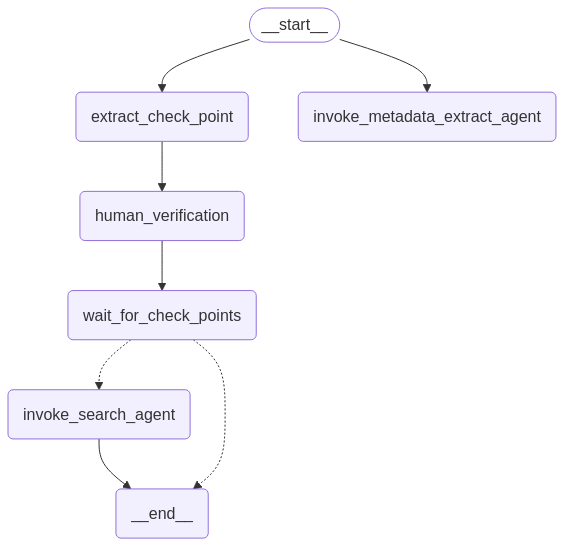
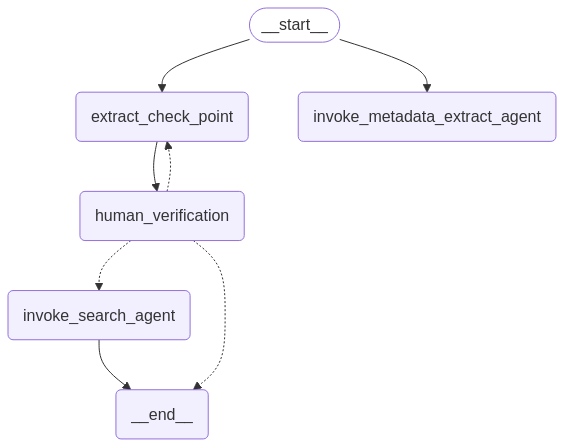
feat: 🎸 fix human verification conditional edge problem

diff --git a/agents/planner/test.py b/agents/planner/test.py
@@ -10,36 +10,36 @@ from utils import check_env
 def cli_select_option(options, prompt):
     """
     实现命令行选择功能，用户可以通过左右箭头键选择选项
-    
+
     Args:
         options: 选项列表
         prompt: 提示信息
-        
+
     Returns:
         选中的选项
     """
     selected = 0
-    
+
     print(prompt)
-    
+
     def print_options():
         # 清除当前行
-        sys.stdout.write('\r' + ' ' * 100 + '\r')
-        
+        sys.stdout.write("\r" + " " * 100 + "\r")
+
         # 只打印选项，不打印提示
         for i, option in enumerate(options):
             if i == selected:
                 sys.stdout.write(f"[•] {option}  ")
             else:
                 sys.stdout.write(f"[ ] {option}  ")
-        
+
         sys.stdout.flush()
-    
+
     print_options()
-    
+
     while True:
         key = readchar.readkey()
-        
+
         if key == readchar.key.LEFT and selected > 0:
             selected -= 1
             print_options()
@@ -47,37 +47,25 @@ def cli_select_option(options, prompt):
             selected += 1
             print_options()
         elif key == readchar.key.ENTER:
-            sys.stdout.write('\n')
+            sys.stdout.write("\n")
             return options[selected]
 
 
 def get_user_feedback():
     """处理用户交互，返回用户反馈"""
     choice = cli_select_option(["continue", "revise"], "请选择操作：")
-    
+
     if choice == "continue":
-        return {
-            "action": "continue"
-        }
+        return {"action": "continue"}
     else:
         print("\n请输入您的修改建议：")
         feedback = input("> ")
-        return {
-            "action": "revise",
-            "feedback": feedback
-        }
+        return {"action": "revise", "feedback": feedback}
 
 
 def test_plan_agent():
-    model = ChatDeepSeek(
-        model="deepseek-reasoner",
-        temperature=0.6,
-        streaming=True
-    )
-    metadata_extract_model = ChatOpenAI(
-        model="gpt-4o-mini",
-        temperature=0
-    )
+    model = ChatDeepSeek(model="deepseek-reasoner", temperature=0.6, streaming=True)
+    metadata_extract_model = ChatOpenAI(model="gpt-4o-mini", temperature=0)
     search_model = ChatOpenAI(
         model="qwen-plus-latest",
         temperature=0.4,
@@ -96,25 +84,26 @@ def test_plan_agent():
     }
 
     plan_agent = PlanAgentGraph(
-        model=metadata_extract_model,
+        model=model,
         metadata_extract_model=metadata_extract_model,
-        search_model=search_model
+        search_model=search_model,
     )
-    
+
     # 添加命令行查看图的选项
     if "--view-graph" in sys.argv:
         import os
+
         graph_path = "plan_agent_graph.png"
         plan_agent.graph.get_graph().draw_mermaid_png(output_file_path=graph_path)
         print(f"Graph saved to {os.path.abspath(graph_path)}")
         return
-    
+
     thread_config = {"thread_id": "some_id"}
     res = plan_agent.invoke(
-        example_initial_state, 
+        example_initial_state,
         {"configurable": thread_config},
     )
-    
+
     # 需要反复捕获 interrups 才能不断进行 agent-human loop ！！！
     while True:
         states = plan_agent.graph.get_state({"configurable": thread_config})
@@ -122,13 +111,25 @@ def test_plan_agent():
         if interrupts:
             # question = interrupts[0].value.get('question', '')
             result = get_user_feedback()
-            
-            plan_agent.invoke(
-                Command(resume=result),
-                config={"configurable": thread_config},
-            )
+
+            if result["action"] == "continue":
+                plan_agent.invoke(
+                    Command(resume="continue"),
+                    config={"configurable": thread_config},
+                )
+            else:
+                plan_agent.invoke(
+                    Command(
+                        resume="revise",
+                        update={
+                            "human_feedback": result["feedback"],
+                        },
+                    ),
+                    config={"configurable": thread_config},
+                )
         else:
             break
-    
+
+
 if __name__ == "__main__":
     test_plan_agent()

diff --git a/agents/planner/graph.py b/agents/planner/graph.py
@@ -31,25 +31,23 @@ class PlanAgentGraph(BaseAgent[ChatDeepSeek]):
         """初始化子 agent 模型"""
         self.metadata_extract_model = metadata_extract_model
         self.search_model = search_model
-
+        
     def _build_graph(self) -> CompiledStateGraph:
         graph_builder = StateGraph(FactCheckPlanState)
 
         graph_builder.add_node("extract_check_point", self.extract_check_point)
-        graph_builder.add_node("human_verification", self.human_verification)
         graph_builder.add_node("invoke_metadata_extract_agent", self.invoke_metadata_extract_agent)
         graph_builder.add_node("invoke_search_agent", self.invoke_search_agent)
-        graph_builder.add_node("wait_for_check_points", self.wait_for_check_points)
+        graph_builder.add_node("human_verification", self.human_verification)
 
         graph_builder.add_edge(START, "invoke_metadata_extract_agent")
         graph_builder.add_edge(START, "extract_check_point")
         graph_builder.add_edge("extract_check_point", "human_verification")
-        graph_builder.add_edge("human_verification", "wait_for_check_points")
         
         graph_builder.add_conditional_edges(
-            "wait_for_check_points",
-            self.should_continue_to_parallel_retrieval, # type: ignore
-            ["invoke_search_agent", END]
+            "human_verification",
+            self.should_continue_to_parallel_retrieval,
+            ["extract_check_point", END, "invoke_search_agent"]
         )
         
         graph_builder.set_finish_point("invoke_search_agent")
@@ -84,8 +82,11 @@ class PlanAgentGraph(BaseAgent[ChatDeepSeek]):
         response = self.model.invoke(messages)
         check_points = fact_check_plan_output_parser.invoke(response)
 
-        # 更新状态
-        return {"check_points": check_points}
+        # 更新核查点并清除上一次反馈
+        return {
+            "check_points": check_points,
+            "human_feedback": ""
+        }
 
     def human_verification(self, state: FactCheckPlanState):
         """
@@ -93,27 +94,20 @@ class PlanAgentGraph(BaseAgent[ChatDeepSeek]):
         将检索方案交给人类进行核验，根据反馈开始核查或更新检索方案
         """
         # 中断图的执行，等待人类输入
-        result = interrupt(
+        result =  interrupt(
             {
                 "question": "根据您提供的新闻文本，我规划了以下事实核查方案:\n\n"
                 + f"{state.check_points.model_dump_json(indent=4) if state.check_points else 'LLM outputed nothing'}\n"
                 + "选择 'continue' 开始核查，或输入修改建议",
             }
         )
-
-        if result["action"] == "continue":
-            return Command(resume="")
+        
+        if result == "revise":
+            return Command(goto="extract_check_point")
         else:
-            return Command(
-                goto="extract_check_point",
-                update={
-                    "human_feedback": result["feedback"],
-                },
-            )
-
-    def wait_for_check_points(self, state: FactCheckPlanState):
-        pass
-
+            return Command(resume="")
+        
+            
     def invoke_metadata_extract_agent(self, state: FactCheckPlanState):
         """调用知识元检索 agent 补充"""
         from agents import MetadataExtractAgentGraph
@@ -132,6 +126,9 @@ class PlanAgentGraph(BaseAgent[ChatDeepSeek]):
         如果有检查点和基本元数据，则创建并行检索任务
         如果没有，则结束图的执行
         """
+        if state.human_feedback:
+            return "extract_check_point"
+        
         if (
             state.check_points and 
             state.metadata and 

diff --git a/agents/searcher/prompts.py b/agents/searcher/prompts.py
@@ -23,9 +23,9 @@ system_prompt_template = SystemMessagePromptTemplate.from_template(
 </Purpose>
 
 尝试寻找这些类型的证据，其有助于验证核查点的真实性：
-<Expected Results>
-{expected_results}
-</Expected Results>
+<Expected Sources>
+{expected_sources}
+</Expected Sources>
 
 <Task>
 1. 使用工具检索信息
